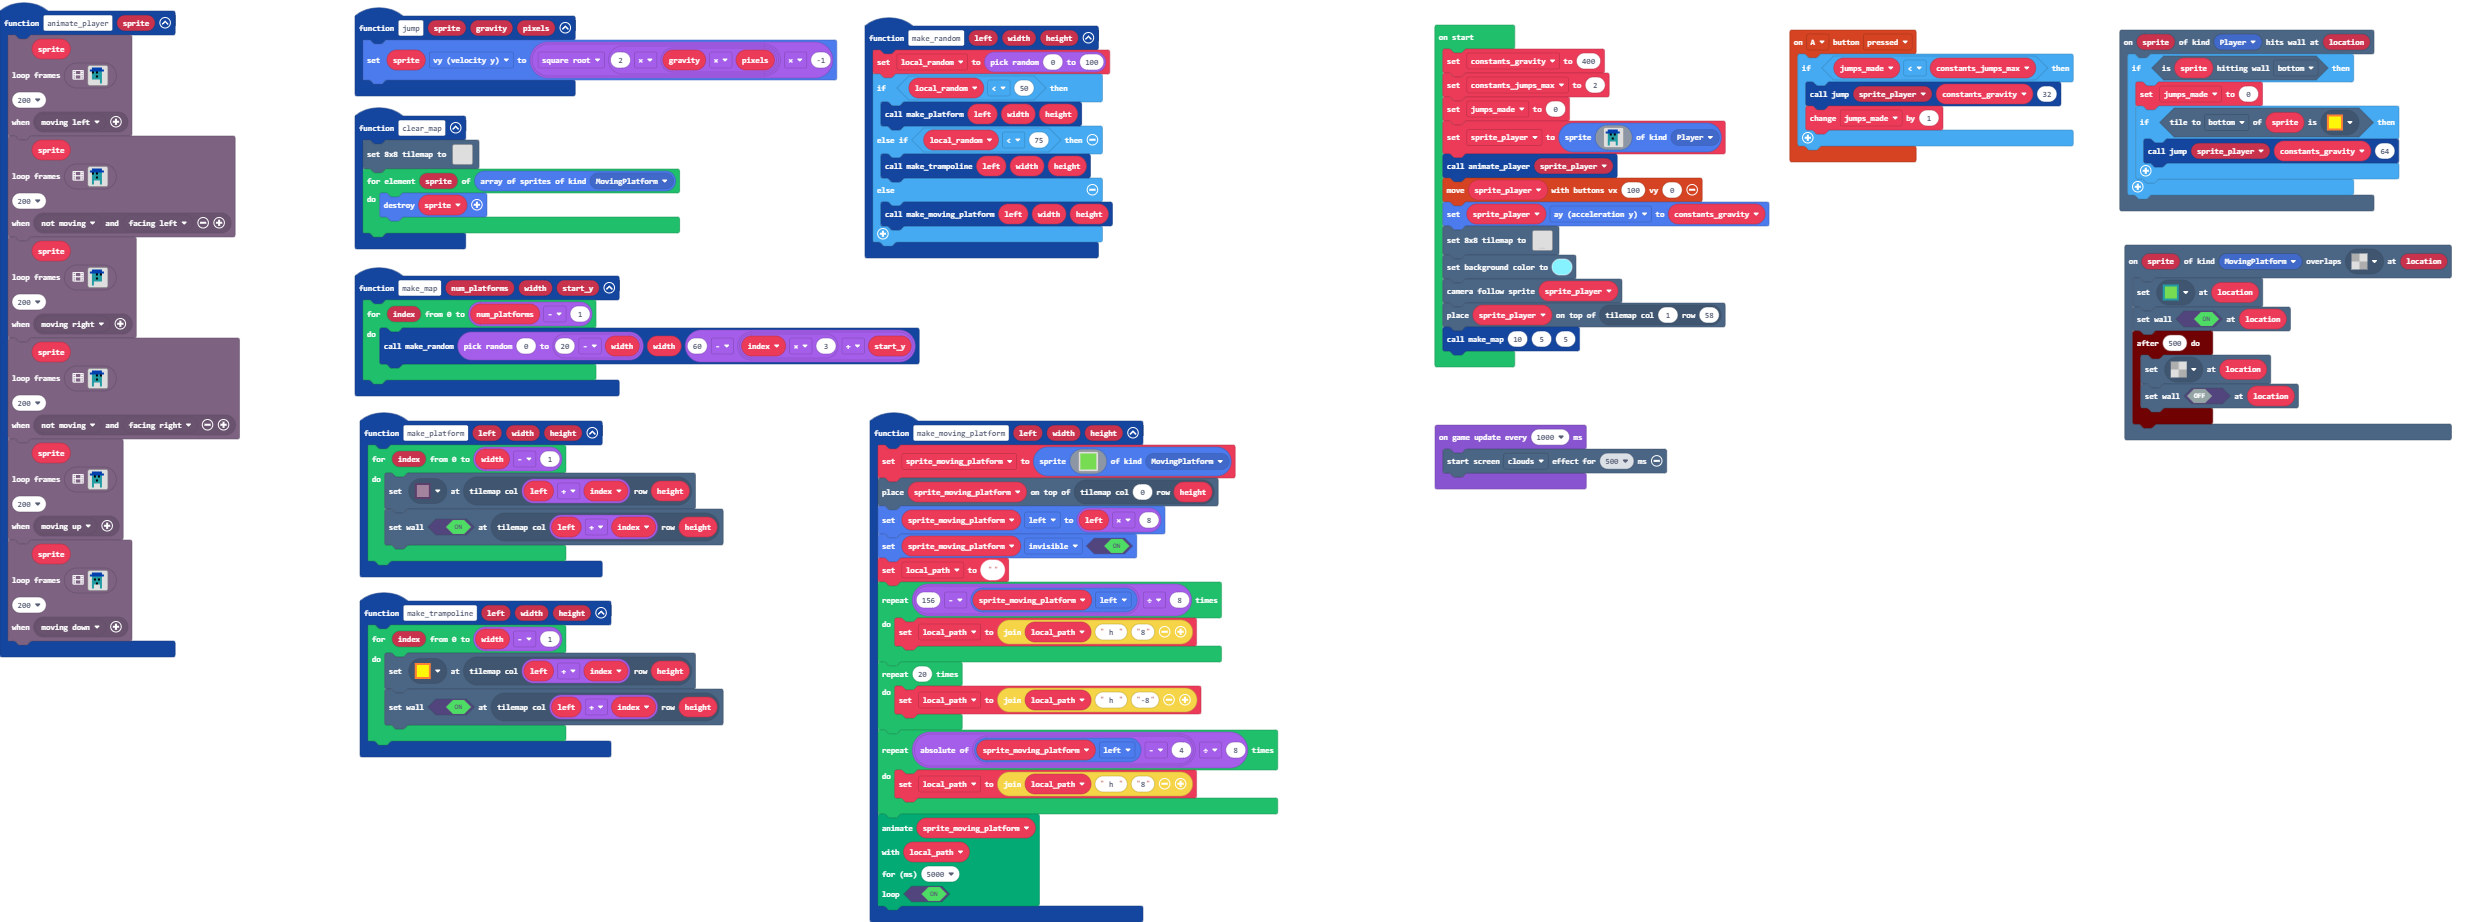
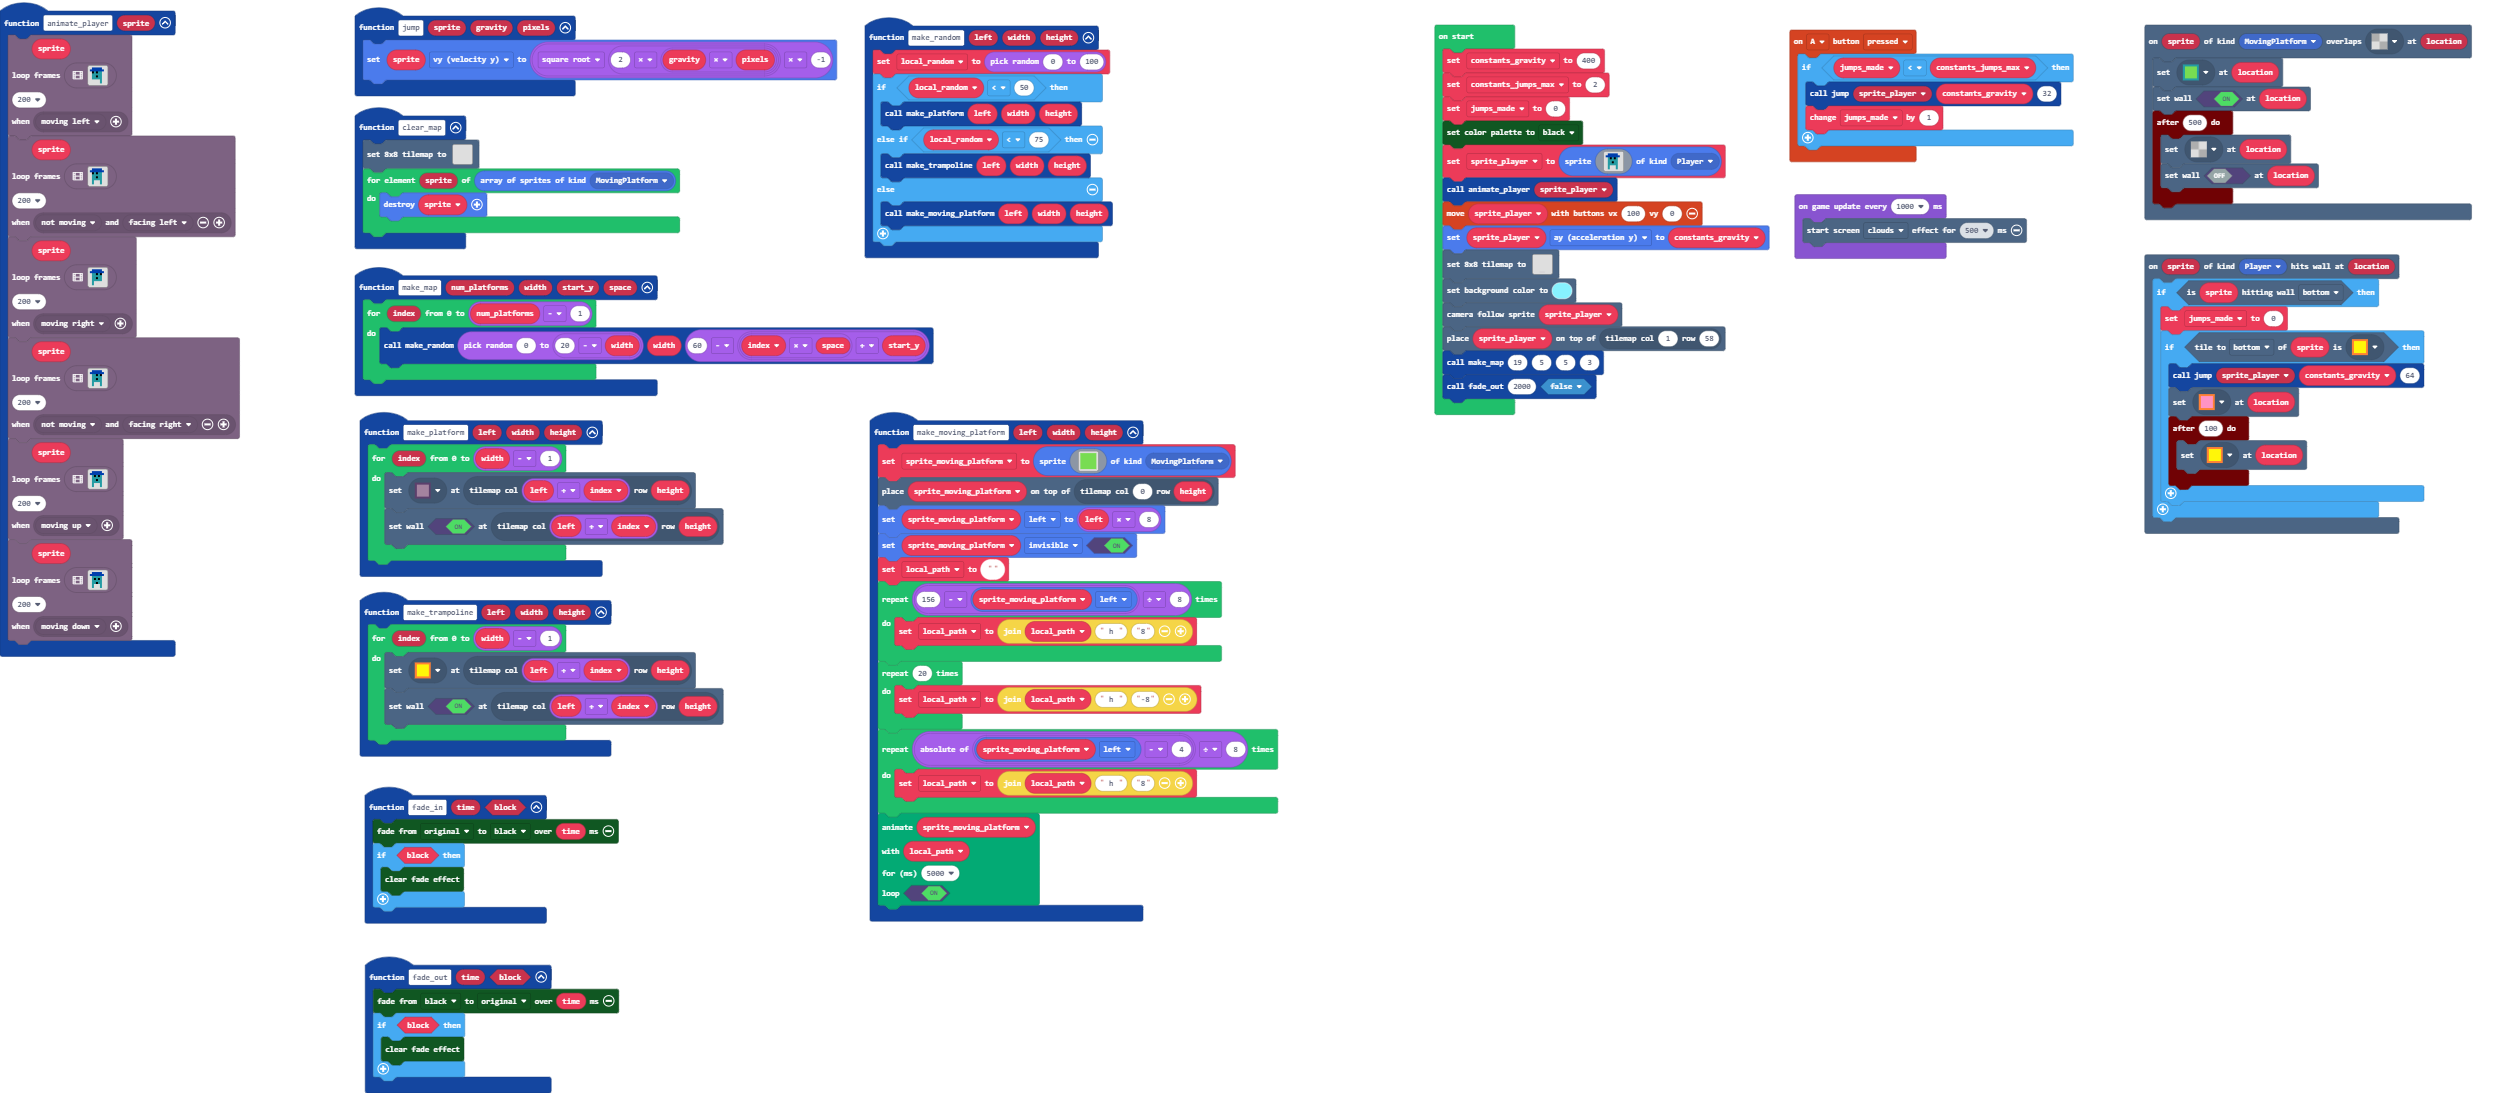
Fade out and light up trampoline

diff --git a/main.ts b/main.ts
@@ -6,6 +6,10 @@ scene.onHitWall(SpriteKind.Player, function (sprite, location) {
         jumps_made = 0
         if (sprite.tileKindAt(TileDirection.Bottom, myTiles.tile2)) {
             jump(sprite_player, constants_gravity, 64)
+            tiles.setTileAt(location, myTiles.tile4)
+            timer.after(100, function () {
+                tiles.setTileAt(location, myTiles.tile2)
+            })
         }
     }
 })
@@ -94,6 +98,18 @@ function clear_map () {
         sprite.destroy()
     }
 }
+function fade_out (time: number, block: boolean) {
+    color.startFade(color.Black, color.originalPalette, time)
+    if (block) {
+        color.clearFadeEffect()
+    }
+}
+function fade_in (time: number, block: boolean) {
+    color.startFade(color.originalPalette, color.Black, time)
+    if (block) {
+        color.clearFadeEffect()
+    }
+}
 scene.onOverlapTile(SpriteKind.MovingPlatform, myTiles.transparency8, function (sprite, location) {
     tiles.setTileAt(location, myTiles.tile3)
     tiles.setWallAt(location, true)
@@ -105,9 +121,9 @@ scene.onOverlapTile(SpriteKind.MovingPlatform, myTiles.transparency8, function (
 function jump (sprite: Sprite, gravity: number, pixels: number) {
     sprite.vy = Math.sqrt(2 * (gravity * pixels)) * -1
 }
-function make_map (num_platforms: number, width: number, start_y: number) {
+function make_map (num_platforms: number, width: number, start_y: number, space: number) {
     for (let index = 0; index <= num_platforms - 1; index++) {
-        make_random(randint(0, 20 - width), width, 60 - (index * 3 + start_y))
+        make_random(randint(0, 20 - width), width, 60 - (index * space + start_y))
     }
 }
 function make_random (left: number, width: number, height: number) {
@@ -267,6 +283,9 @@ let constants_gravity = 0
 constants_gravity = 400
 constants_jumps_max = 2
 jumps_made = 0
+color.setPalette(
+color.Black
+)
 sprite_player = sprites.create(img`
     . 8 8 8 8 8 . . 
     8 8 8 8 8 8 8 . 
@@ -345,7 +364,8 @@ tiles.setSmallTilemap(tiles.createTilemap(hex`14003c0000000000000000000000000000
 scene.setBackgroundColor(9)
 scene.cameraFollowSprite(sprite_player)
 tiles.placeOnTile(sprite_player, tiles.getTileLocation(1, 58))
-make_map(10, 5, 5)
+make_map(19, 5, 5, 3)
+fade_out(2000, false)
 game.onUpdateInterval(1000, function () {
     effects.clouds.startScreenEffect(500)
 })

diff --git a/tilemap.g.ts b/tilemap.g.ts
@@ -9,6 +9,8 @@ namespace myTiles {
     //% fixedInstance jres blockIdentity=images._tile
     export const tile3 = image.ofBuffer(hex``);
     //% fixedInstance jres blockIdentity=images._tile
+    export const tile4 = image.ofBuffer(hex``);
+    //% fixedInstance jres blockIdentity=images._tile
     export const transparency16 = image.ofBuffer(hex``);
 
 }
